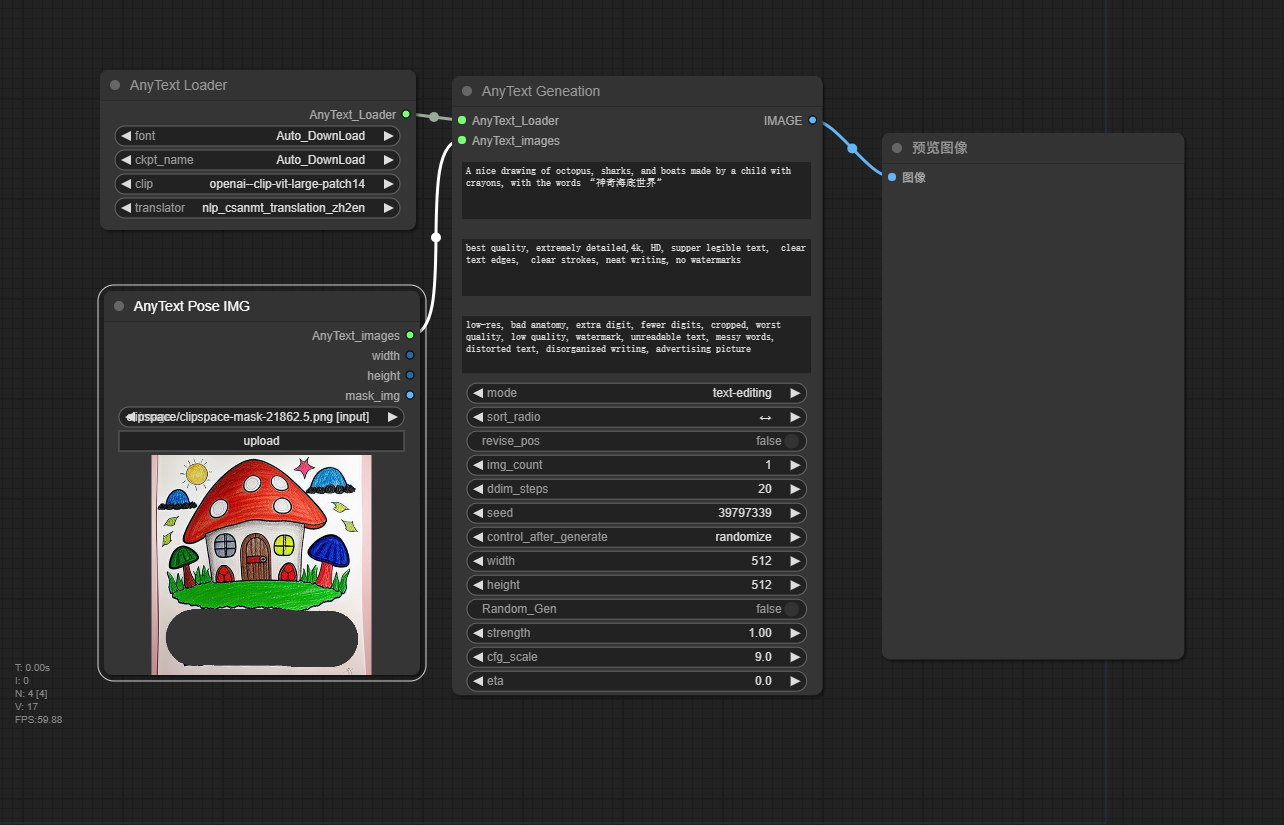
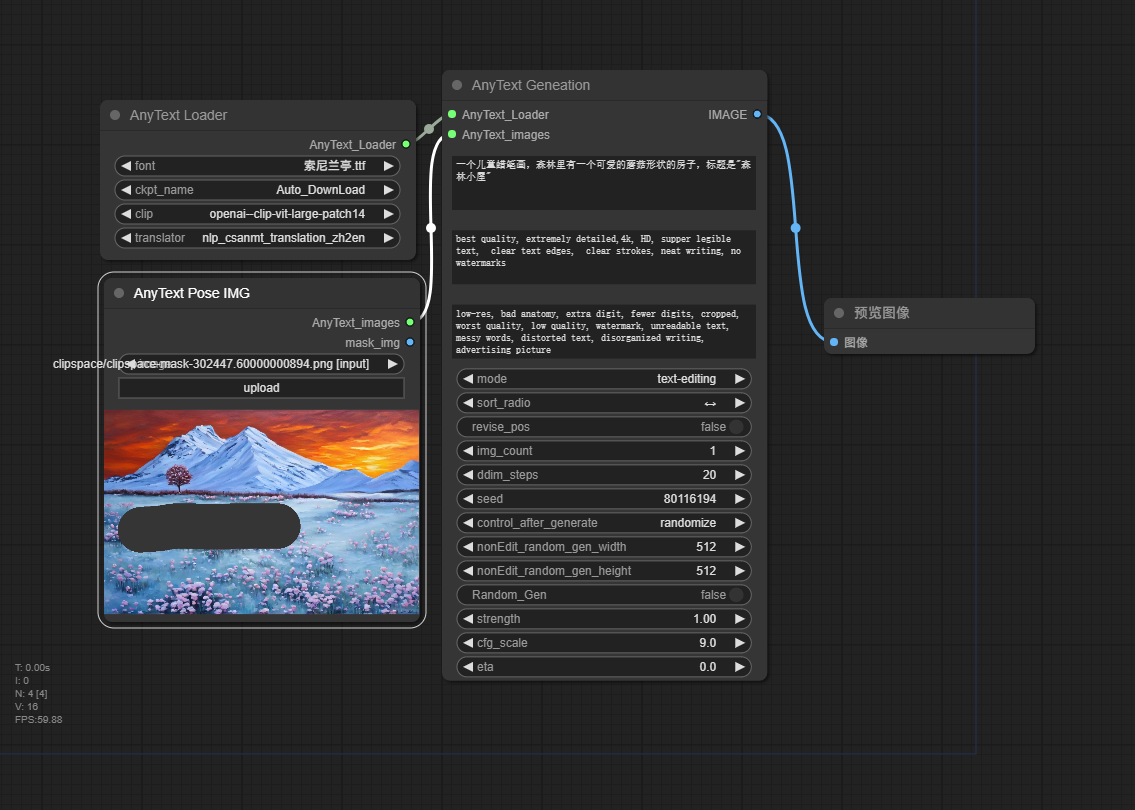
Now accept any resolution image input.支持输入任意尺寸图片。

diff --git a/AnyText/nodes.py b/AnyText/nodes.py
@@ -29,8 +29,8 @@ class AnyText:
                 "img_count": ("INT", {"default": 1, "min": 1, "max": 10}),
                 "ddim_steps": ("INT", {"default": 20, "min": 1, "max": 100}),
                 "seed": ("INT", {"default": 9999, "min": -1, "max": 99999999}),
-                "width": ("INT", {"default": 512, "min": 128, "max": 1920, "step": 64}),
-                "height": ("INT", {"default": 512, "min": 128, "max": 1920, "step": 64}),
+                "nonEdit_random_gen_width": ("INT", {"default": 512, "min": 128, "max": 1920, "step": 64}),
+                "nonEdit_random_gen_height": ("INT", {"default": 512, "min": 128, "max": 1920, "step": 64}),
                 # "width": ("INT", {"forceInput": True}),
                 # "height": ("INT", {"forceInput": True}),
                 "Random_Gen": ("BOOLEAN", {"default": False}),
@@ -85,8 +85,8 @@ class AnyText:
         eta=0.0, 
         a_prompt="", 
         n_prompt="", 
-        width=512, 
-        height=512,
+        nonEdit_random_gen_width=512, 
+        nonEdit_random_gen_height=512,
     ):
         def prompt_replace(prompt):
             prompt = prompt.replace('“', '"')
@@ -167,10 +167,10 @@ class AnyText:
                 raise Exception(f'Failed in auto generate positions after {attempts} attempts, try again!')
             return img
         
-        if width%64 == 0 and height%64 == 0:
-            pass
-        else:
-            raise Exception(f"width and height must be multiple of 64(宽度和高度必须为64的倍数).")
+        # if width%64 == 0 and height%64 == 0:
+        #     pass
+        # else:
+        #     raise Exception(f"width and height must be multiple of 64(宽度和高度必须为64的倍数).")
         
         if not is_module_imported('AnyText_Pipeline'):
             from .AnyText_scripts.AnyText_pipeline import AnyText_Pipeline
@@ -206,7 +206,7 @@ class AnyText:
             
         n_lines = count_lines(prompt)
         if Random_Gen == True:
-            generate_rectangles(width, height, n_lines, max_trys=500)
+            generate_rectangles(nonEdit_random_gen_width, nonEdit_random_gen_height, n_lines, max_trys=500)
             pos_img = Random_Gen_Mask_path
         else:
             pos_img = pos
@@ -218,13 +218,14 @@ class AnyText:
         
         params = {
             "mode": mode,
+            "Random_Gen": Random_Gen,
             "sort_priority": sort_radio,
             "revise_pos": revise_pos,
             # "show_debug": show_debug,
             "image_count": img_count,
             "ddim_steps": ddim_steps - 1,
-            "image_width": width,
-            "image_height": height,
+            "image_width": nonEdit_random_gen_width,
+            "image_height": nonEdit_random_gen_height,
             "strength": strength,
             "cfg_scale": cfg_scale,
             "eta": eta,
@@ -238,7 +239,7 @@ class AnyText:
                 "draw_pos": pos_img,
                 "ori_image": ori_image,
                 }
-        print("\033[93mImg Resolution<=768x768 Recommended(图像分辨率,建议<=768x768):", {width}, "x", {height}, "\033[0m")
+        print("\033[93mImg Resolution<=768x768 Recommended(图像分辨率,建议<=768x768):", {nonEdit_random_gen_width}, "x", {nonEdit_random_gen_height}, "\033[0m")
         # if show_debug ==True:
         #     print(f'\033[93mloader from .util(从.util输入的loader): {AnyText_Loader}, \033[0m\n \
         #             \033[93mloader_out split form loader(分割loader得到4个参数): {loader_out}, \033[0m\n \

diff --git a/AnyText/AnyText_scripts/AnyText_pipeline.py b/AnyText/AnyText_scripts/AnyText_pipeline.py
@@ -99,6 +99,7 @@ class AnyText_Pipeline():
         ori_image = input_tensor.get('ori_image')
 
         mode = forward_params.get('mode')
+        Random_Gen = forward_params.get('Random_Gen')
         sort_priority = forward_params.get('sort_priority', '↕')
         show_debug = forward_params.get('show_debug', False)
         revise_pos = forward_params.get('revise_pos', False)
@@ -117,7 +118,15 @@ class AnyText_Pipeline():
             return None, -1, "You have input Chinese prompt but the translator is not loaded!", ""
         n_lines = len(texts)
         if mode in ['text-generation', 'gen']:
-            edit_image = np.ones((h, w, 3)) * 127.5  # empty mask image
+            if Random_Gen == True:
+                edit_image = np.ones((h, w, 3)) * 127.5  # empty mask image
+                edit_image = resize_image(edit_image, max_length=768)
+                h, w = edit_image.shape[:2]
+            else:
+                edit_image = cv2.imread(draw_pos)[..., ::-1]
+                edit_image = resize_image(edit_image, max_length=768)
+                h, w = edit_image.shape[:2]
+                edit_image = np.ones((h, w, 3)) * 127.5  # empty mask image
         elif mode in ['text-editing', 'edit']:
             if draw_pos is None or ori_image is None:
                 return None, -1, "Reference image and position image are needed for text editing!", ""
@@ -137,6 +146,8 @@ class AnyText_Pipeline():
             pos_imgs = np.zeros((w, h, 1))
         if isinstance(draw_pos, str):
             draw_pos = cv2.imread(draw_pos)[..., ::-1]
+            draw_pos = resize_image(draw_pos, max_length=768)
+            draw_pos = cv2.resize(draw_pos, (w, h))
             assert draw_pos is not None, f"Can't read draw_pos image from{draw_pos}!"
             pos_imgs = 255-draw_pos
         elif isinstance(draw_pos, torch.Tensor):

diff --git a/AnyText/utils.py b/AnyText/utils.py
@@ -94,13 +94,13 @@ class AnyText_Pose_IMG:
     CATEGORY = "ExtraModels/AnyText"
     RETURN_TYPES = (
         "AnyText_images", 
-        "INT", 
-        "INT", 
+        # "INT", 
+        # "INT", 
         "IMAGE")
     RETURN_NAMES = (
         "AnyText_images", 
-        "width", 
-        "height", 
+        # "width", 
+        # "height", 
         "mask_img")
     FUNCTION = "AnyText_Pose_IMG"
     TITLE = "AnyText Pose IMG"
@@ -111,10 +111,10 @@ class AnyText_Pose_IMG:
         AnyText_images = ori_image_path + '|' + pos_img_path
         img = node_helpers.pillow(Image.open, ori_image_path)
         width, height = img.size
-        if width%64 == 0 and height%64 == 0:
-            pass
-        else:
-            raise Exception(f"Input pos_img resolution must be multiple of 64(输入的pos_img图片分辨率必须为64的倍数).\n")
+        # if width%64 == 0 and height%64 == 0:
+        #     pass
+        # else:
+        #     raise Exception(f"Input pos_img resolution must be multiple of 64(输入的pos_img图片分辨率必须为64的倍数).\n")
         output_images = []
         output_masks = []
         w, h = None, None
@@ -160,8 +160,8 @@ class AnyText_Pose_IMG:
 
         return (
             AnyText_images, 
-            width, 
-            height, 
+            # width, 
+            # height, 
             inverted_mask_image)
 
     @classmethod
